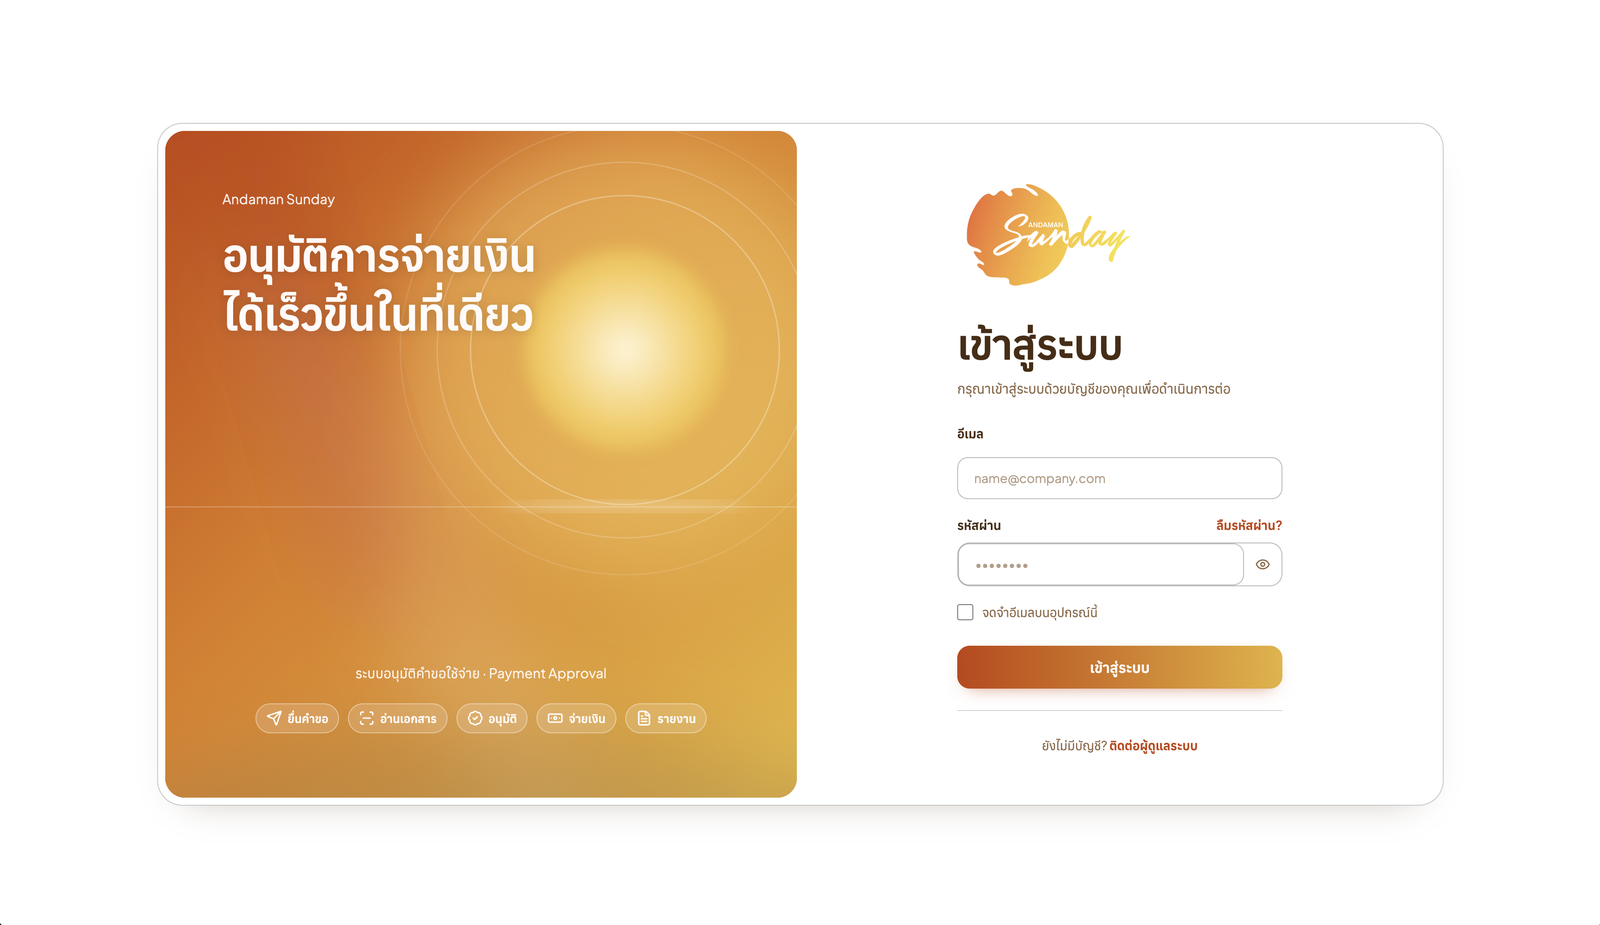
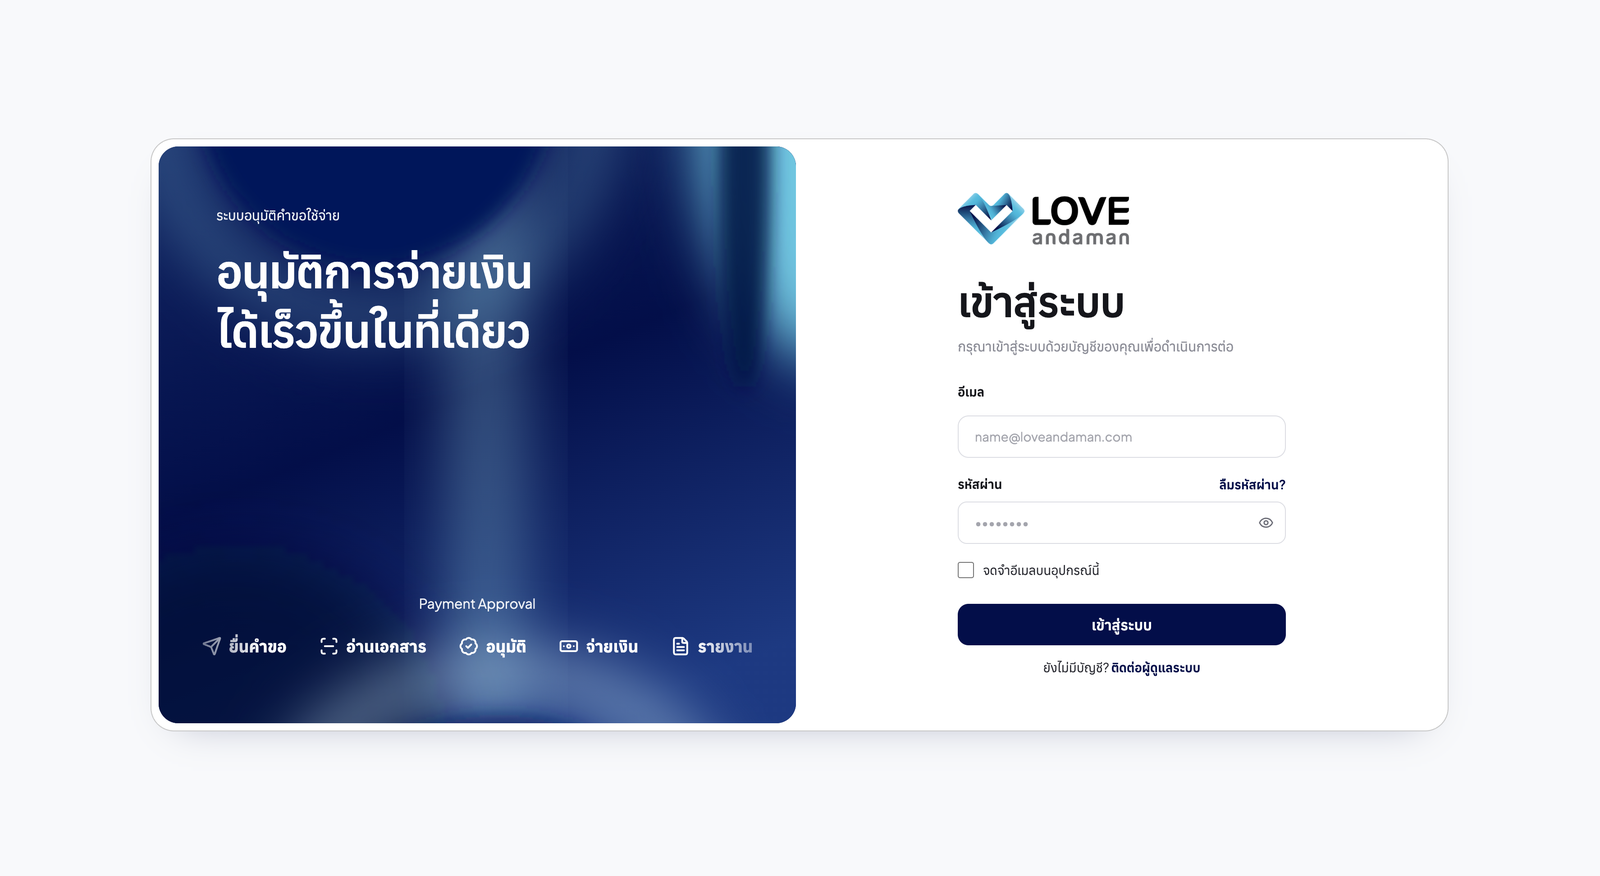
Update PAYMENT APPROVAL to approve.loveandaman.com with new image
Claude-Session: https://claude.ai/code/session_012tobgaYbFtzEdZgBByW2tP

diff --git a/index.html b/index.html
@@ -220,9 +220,9 @@
     {title:'PAYMENT APPROVAL', init:'PA', cat:'อนุมัติ & ค่าใช้จ่าย', dom:'web-production-e1a08.up.railway.app',
      desc:'ระบบอนุมัติคำขอใช้จ่าย',
      link:'https://web-production-e1a08.up.railway.app'},
-    {title:'PAYMENT APPROVAL', init:'PA', cat:'อนุมัติ & ค่าใช้จ่าย', dom:'approve.andamansunday.com',
+    {title:'PAYMENT APPROVAL', init:'PA', cat:'อนุมัติ & ค่าใช้จ่าย', dom:'approve.loveandaman.com',
      desc:'ระบบอนุมัติคำขอใช้จ่าย', img:'payment-approval-preview.png',
-     link:'https://approve.andamansunday.com'},
+     link:'https://approve.loveandaman.com'},
     {title:'DOCUMENT MANAGEMENT', init:'DM', cat:'Productivity', dom:'app-production-43c5.up.railway.app',
      desc:'จัดเก็บและควบคุมเอกสารสำคัญของบริษัท', img:'docmgmt-preview.png',
      link:'https://app-production-43c5.up.railway.app'},
